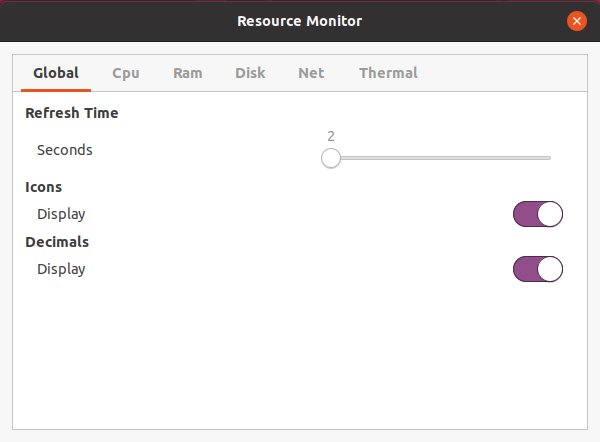
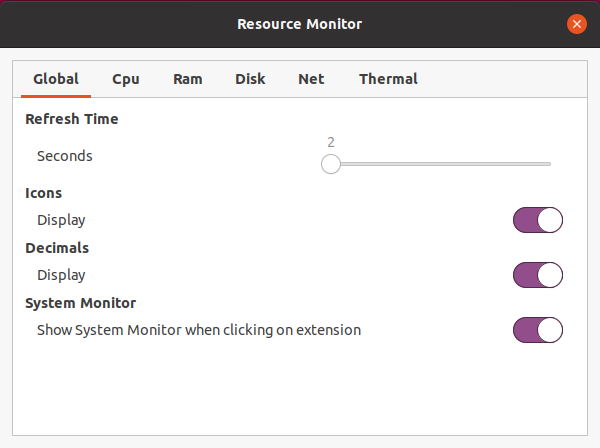
Updated settings.png, metadata and gschemas

diff --git a/stylesheet.css b/stylesheet.css
@@ -1,22 +1,3 @@
-/*
- * Resource_Monitor is Copyright © 2018-2020 Giuseppe Silvestro
- *
- * This file is part of Resource_Monitor.
- *
- * Resource_Monitor is free software: you can redistribute it and/or modify
- * it under the terms of the GNU General Public License as published by
- * the Free Software Foundation, either version 3 of the License, or
- * any later version.
- *
- * Resource_Monitor is distributed in the hope that it will be useful,
- * but WITHOUT ANY WARRANTY; without even the implied warranty of
- * MERCHANTABILITY or FITNESS FOR A PARTICULAR PURPOSE. See the
- * GNU General Public License for more details.
- *
- * You should have received a copy of the GNU General Public License
- * along with Resource_Monitor. If not, see <http://www.gnu.org/licenses/>.
- */
-
  .unit {
    font-size: 0.625em;
    padding-top: 0.4em;
